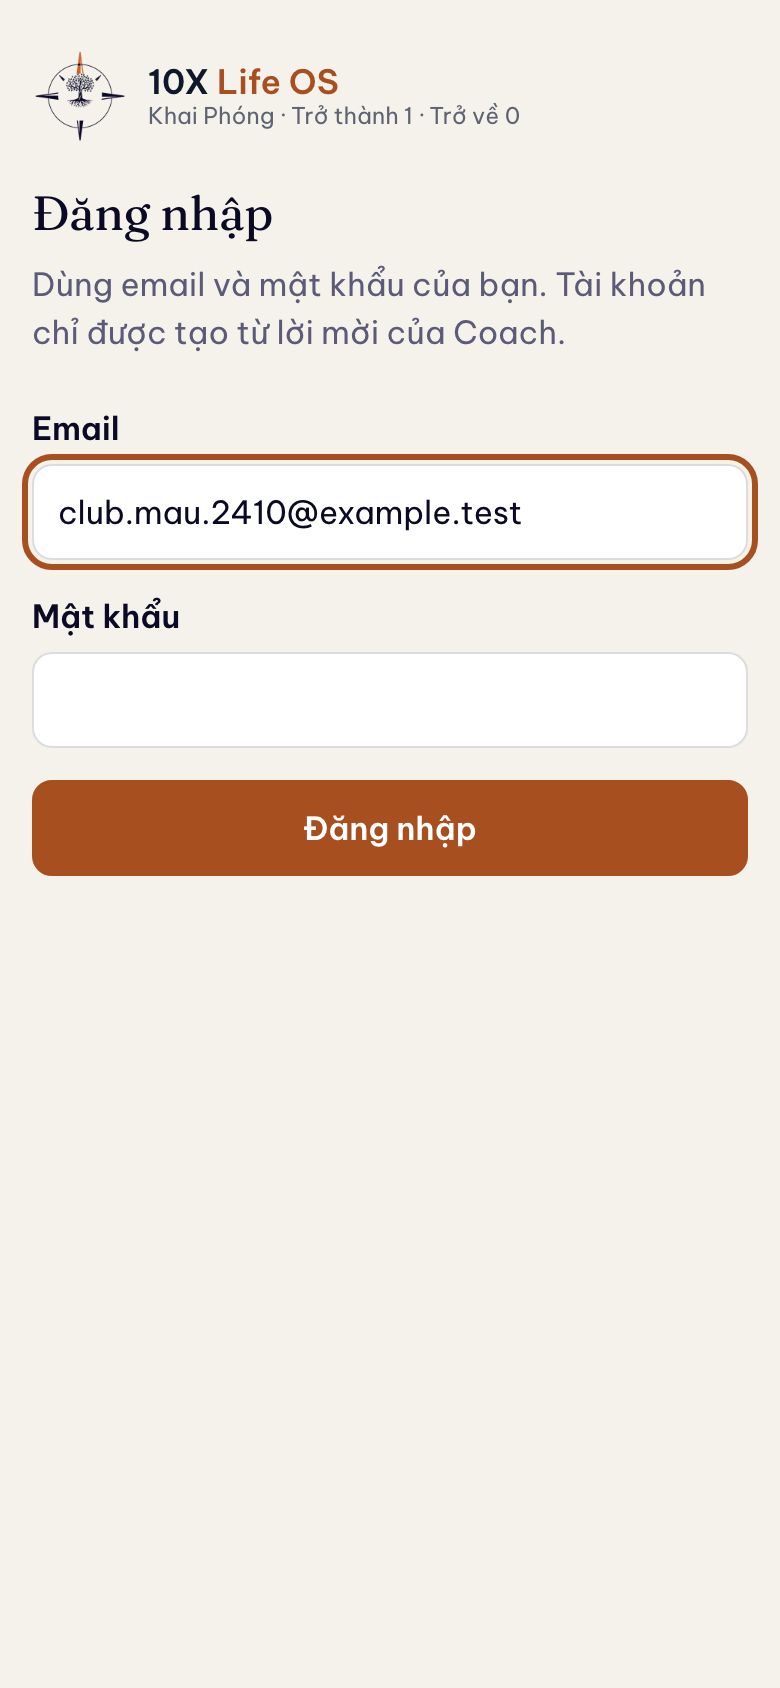
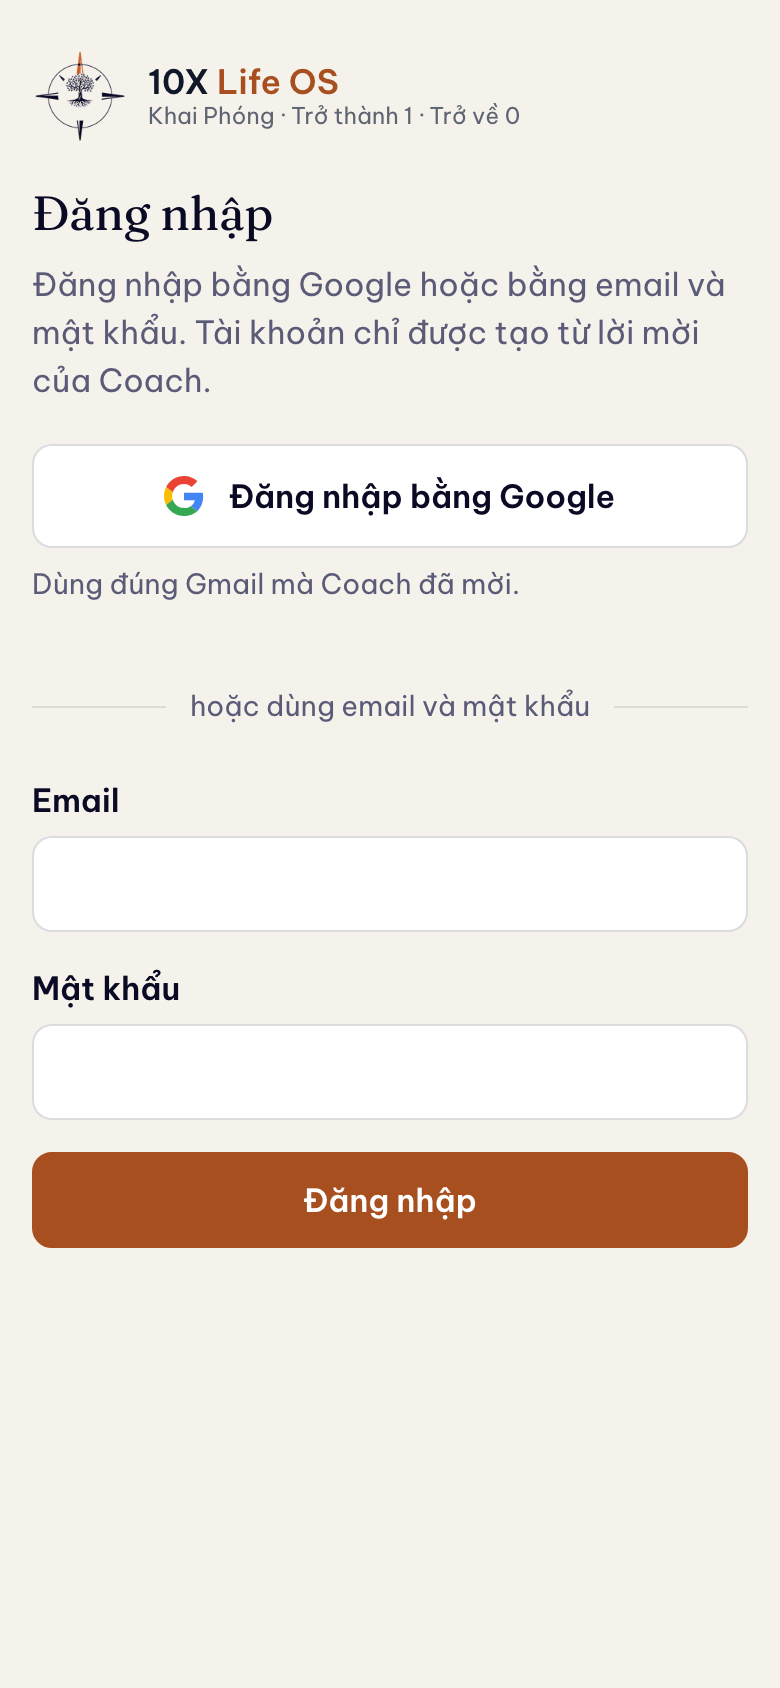
feat(club-10x): ảnh đăng nhập có nút Google (trang công khai app thật), chú thích khớp bước 3

diff --git a/club-10x/index.html b/club-10x/index.html
@@ -61,7 +61,7 @@
 <p><strong>Quên cách đăng nhập lại?</strong> Vào app.10x-lifeos.com, bấm đăng nhập bằng Google, chọn đúng Gmail đã đăng ký. Không cần mật khẩu riêng.</p>
 <p><strong>Bé Chồi là gì?</strong> Bé Chồi là trợ lý AI của app. Bé trả lời theo cách Coach dạy, giúp bạn làm bài tập và nhớ việc mỗi ngày. Bé chỉ dùng khi bạn bật ô bé Chồi ở màn đồng ý hoặc ở trang Quyền riêng tư, và tắt lúc nào cũng được.</p>
 </section>
-<section class="c10-sec" aria-labelledby="s-anh"><h2 id="s-anh">Màn hình trong app</h2><ol class="c10-shots"><li><img src="anh/dang-ky-alumni.png" alt="Ảnh màn app, dữ liệu mẫu: Đăng ký, chọn Alumni 10X" loading="lazy" width="780" height="1688"><span>1. Đăng ký, chọn Alumni 10X</span></li><li><img src="anh/dang-nhap.png" alt="Ảnh màn app, dữ liệu mẫu: Màn đăng nhập" loading="lazy" width="780" height="1688"><span>2. Màn đăng nhập</span></li><li><img src="anh/dong-y.png" alt="Ảnh màn app, dữ liệu mẫu: Đọc và đồng ý chính sách" loading="lazy" width="780" height="1688"><span>3. Đọc và đồng ý chính sách</span></li><li><img src="anh/hoc.png" alt="Ảnh màn app, dữ liệu mẫu: Mục Học: Club 10X · Học lại" loading="lazy" width="780" height="1688"><span>4. Mục Học: Club 10X · Học lại</span></li><li><img src="anh/hoc-lai.png" alt="Ảnh màn app, dữ liệu mẫu: Đủ 5 bài M1–M5" loading="lazy" width="780" height="1688"><span>5. Đủ 5 bài M1–M5</span></li></ol><p class="c10-small">Ảnh chụp với dữ liệu mẫu.</p></section>
+<section class="c10-sec" aria-labelledby="s-anh"><h2 id="s-anh">Màn hình trong app</h2><ol class="c10-shots"><li><img src="anh/dang-ky-alumni.png" alt="Ảnh màn app, dữ liệu mẫu: Đăng ký, chọn Alumni 10X" loading="lazy" width="780" height="1688"><span>1. Đăng ký, chọn Alumni 10X</span></li><li><img src="anh/dang-nhap.png" alt="Ảnh màn app, dữ liệu mẫu: Đăng nhập bằng Google" loading="lazy" width="780" height="1688"><span>2. Đăng nhập bằng Google</span></li><li><img src="anh/dong-y.png" alt="Ảnh màn app, dữ liệu mẫu: Đọc và đồng ý chính sách" loading="lazy" width="780" height="1688"><span>3. Đọc và đồng ý chính sách</span></li><li><img src="anh/hoc.png" alt="Ảnh màn app, dữ liệu mẫu: Mục Học: Club 10X · Học lại" loading="lazy" width="780" height="1688"><span>4. Mục Học: Club 10X · Học lại</span></li><li><img src="anh/hoc-lai.png" alt="Ảnh màn app, dữ liệu mẫu: Đủ 5 bài M1–M5" loading="lazy" width="780" height="1688"><span>5. Đủ 5 bài M1–M5</span></li></ol><p class="c10-small">Ảnh chụp với dữ liệu mẫu.</p></section>
 <section class="c10-sec" aria-labelledby="s-mod">
 <h2 id="s-mod">Năm module học lại</h2>
 <ol class="c10-toc">
